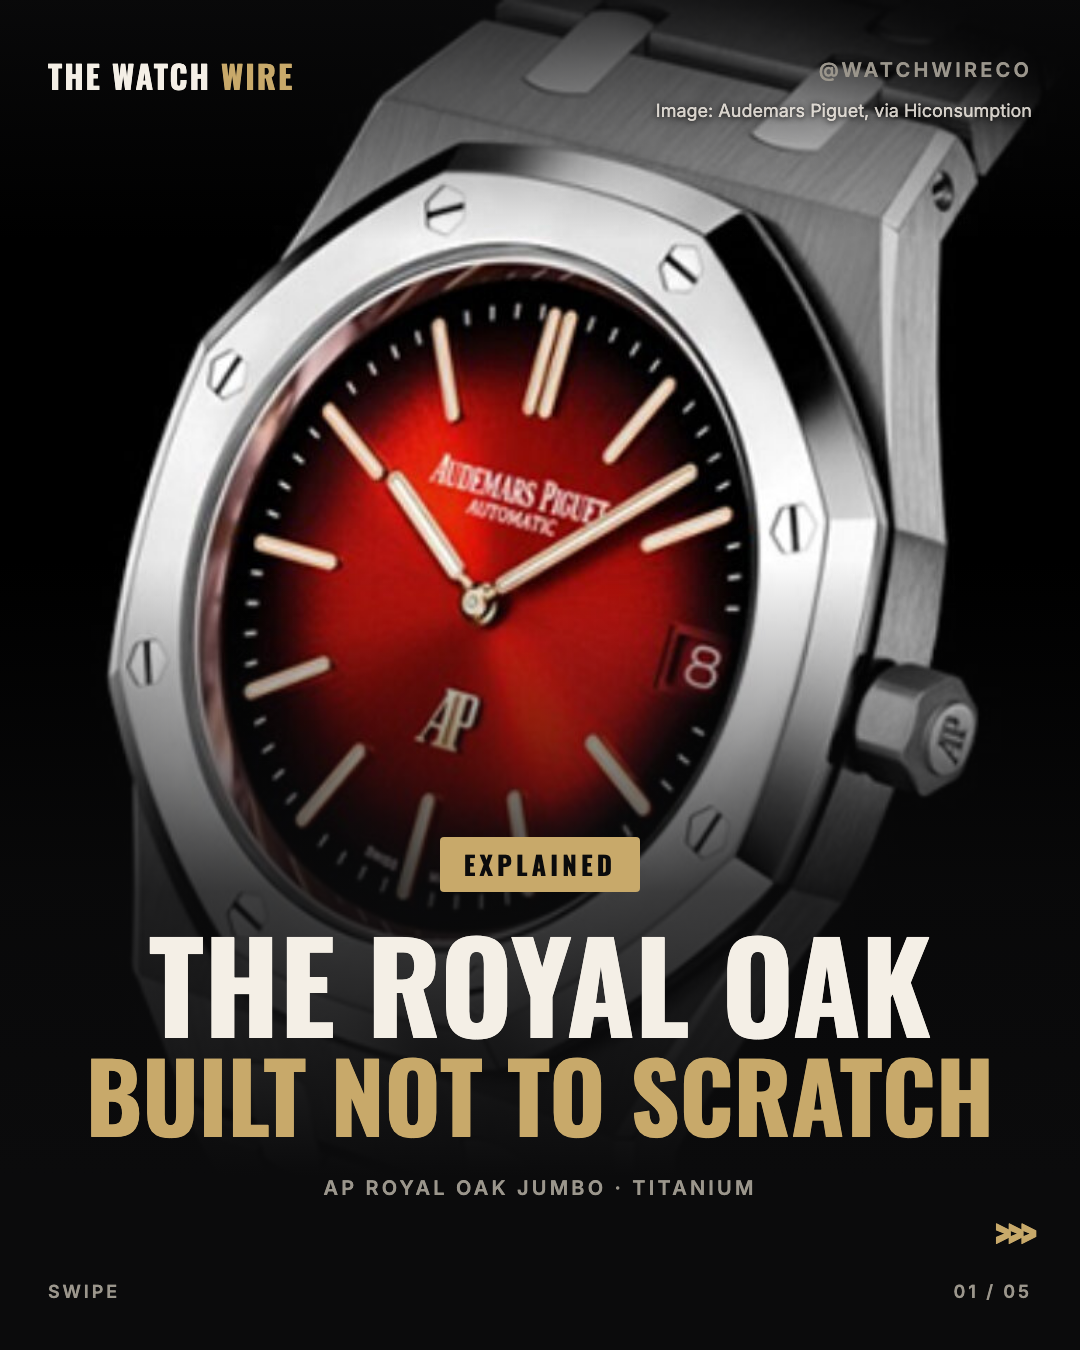
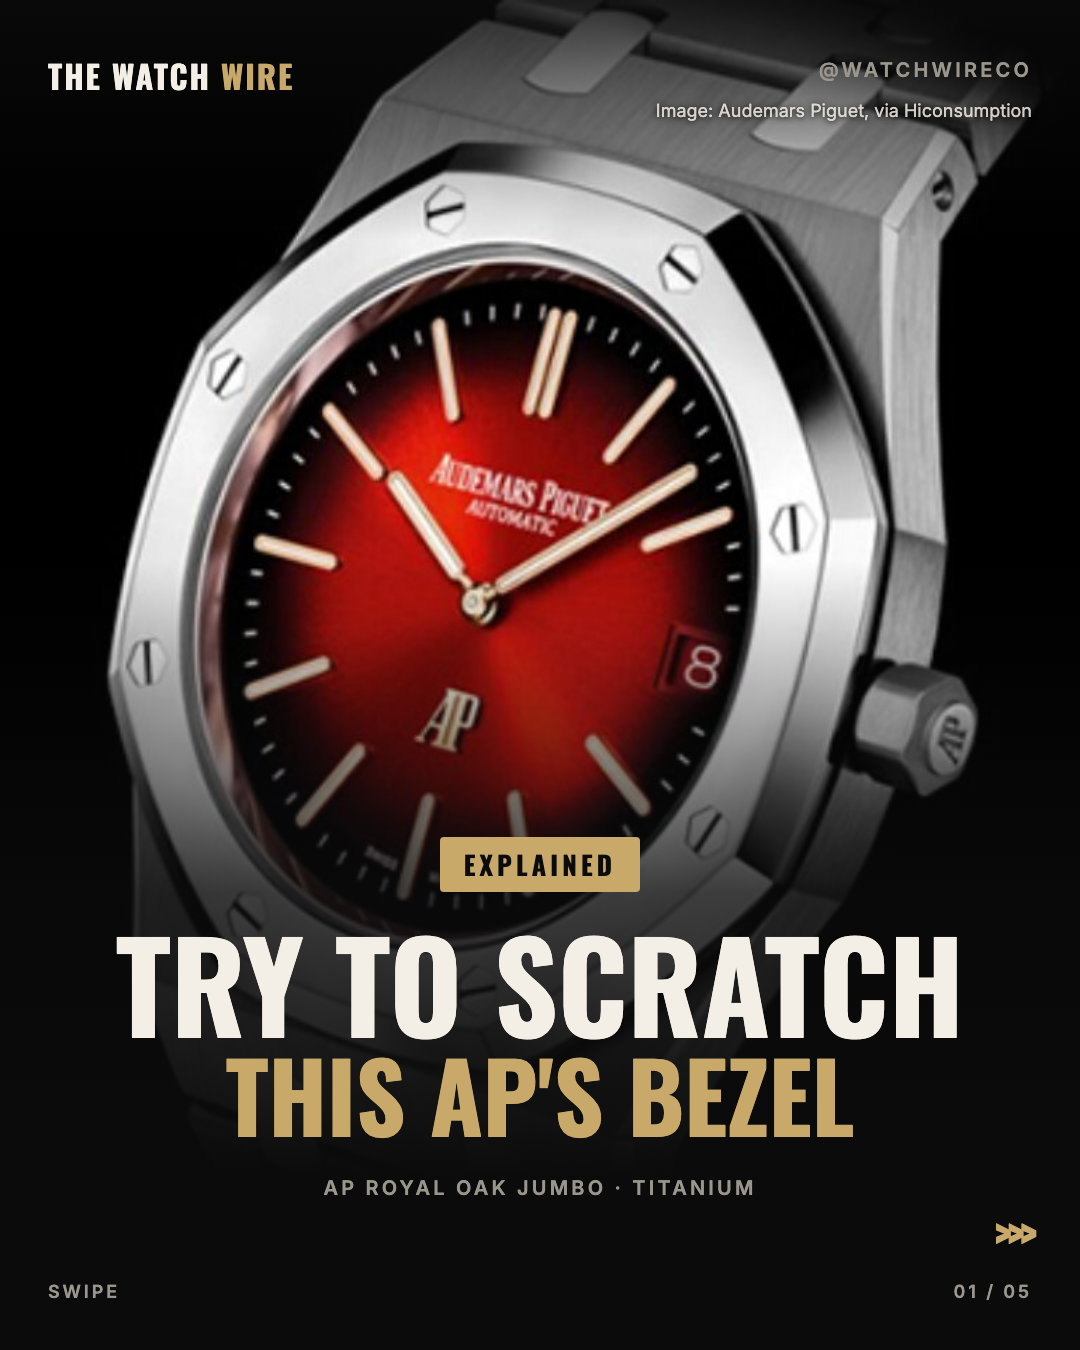
AP Jumbo: dare cover + follow page; covers ask/dare, last slide is a follow page

Changed region(s): [[0.0611, 0.6844, 0.9167, 0.84]]

diff --git a/watch-wire-engine/FORMATS.md b/watch-wire-engine/FORMATS.md
@@ -12,8 +12,7 @@ October. Fifth month in a row." Never hype, emoji headlines or "buy now".
 wearing" unless ownership is confirmed; say whether auction prices include fees.
 **Never:** price predictions, investment advice, clickbait the slides don't pay
 off, reposting other creators' slides or photos, a press photo presented as ours.
-**CTA:** calm and direct, one action ("Vote in the comments." / "Follow @watchwireco
-for daily watch news.").
+**Last slide (owner 2026-11-27):** a follow page: cta {line1: "Like this one?", line2: "Follow for more."} (or a close variant). The comment question goes in the caption. Vote posts (WOULD YOU RATHER, picks) keep their vote prompt on the last slide.
 
 **Plain words (owner 2026-11-26: "our posts are often super hard to read").** Write like a top watch account (@luxurywatchmedia): confident and clear, using real watch words a watch fan knows (bezel, bracelet, centre links, dial, case, movement, titanium, bulk metallic glass, smoked dial, pink gold). Never baby talk or vague paraphrase ("the shiny parts", "frozen in a jumble", "winds itself" → "automatic") — owner 2026-11-27: "this is a watch page."
 - Every slide reads as one full, normal sentence or phrase that makes sense on its own. No riddles or clipped fragments ("Times a stretch, not seconds" → "It measures speed, not time").
@@ -36,7 +35,7 @@ for daily watch news.").
 - Never repeat the cover's words on a later slide, never a slide that only names a topic ("The dial", "The size").
 - Read the slide headlines and bodies in order, out loud, as one paragraph. If it doesn't read as a story, rewrite it.
 
-**Covers (owner 2026-11-26, from @luxurywatchmedia / @liveforwatches).** One huge picture fills about 70% of the cover: a face, a wrist or the watch, cropped tight. Headline = a 3–5 word twist that makes people curious, not a description: "No Snow, No Watch", "Khamzat Wears A Smile", "Left Or Right?", "Built For A Trench War" (not "What A Tachymeter Bezel Actually Does", not "Cartier's Tank Came From War"). Under it, one short fact line (watch name · one number). The tag pill above the headline. The facts and the explaining go on slide 2+.
+**Covers (owner 2026-11-26, from @luxurywatchmedia / @liveforwatches).** One huge picture fills about 70% of the cover: a face, a wrist or the watch, cropped tight. Headline = a question or a dare that pulls the viewer in (owner 2026-11-27: "Try To Scratch This AP's Bezel", "Ever Wonder Why This Bezel Won't Scratch?"), or a 3–5 word twist that makes people curious, never a description or a puzzle the slides must untangle: "No Snow, No Watch", "Khamzat Wears A Smile", "Left Or Right?", "Built For A Trench War" (not "What A Tachymeter Bezel Actually Does", not "Cartier's Tank Came From War"). Under it, one short fact line (watch name · one number). The tag pill above the headline. The facts and the explaining go on slide 2+.
 
 **What gets reach:** today's news the same day; pop culture (games, films, fighters, footballers, rappers, musicians wearing watches); jaw-dropping pieces (a record price, a meteorite dial, 270 rubies); and a choice for the reader. Explainers are the backup, not the main menu.
 

diff --git a/.claude/agents/watch-wire-editor.md b/.claude/agents/watch-wire-editor.md
@@ -37,7 +37,8 @@ Your prompt includes this post's format recipe and the latest lessons; don't rea
 - PLAIN WORDS (owner 2026-11-26: "our posts are often super hard to read"; full rules in FORMATS.md): write like a top watch account: confident, clear, real watch words (bezel, centre links, smoked dial, bulk metallic glass); never baby talk ("the shiny parts", "frozen in a jumble") — owner 2026-11-27. Each slide = one normal sentence that makes sense alone, no clipped riddles. No reference numbers, calibre codes, specs codes, sources or dates on slides ("Omega Speedmaster, $7,800"). Explain a technical word in the same sentence or drop it. One number per slide max. Read every slide aloud: if it sounds odd, rewrite it.
 - STORY FIRST (owner 2026-11-27, full rule in FORMATS.md "Story first"): before slides.json, write `<P>/story.txt`: 4-6 plain sentences you'd say out loud to a watch fan, each answering the question the last one raised, every unusual term explained in everyday words the first time. Then cut story.txt into slides in order (headline = short sentence up to 8 words, body up to 25 words, label empty).
 - ONE STORY (owner 2026-11-27, full rule in FORMATS.md): write the post as one short paragraph first (promise → answer → why it's interesting → payoff), then cut it into slides in order. Slide 2 pays off the cover at once; each slide follows from the last like the next sentence; never repeat the cover's words; no topic-only slides ("The dial", "The size"). Read all slides in order as one paragraph before finishing.
-- COVER HEADLINE (owner 2026-11-26): a 3-5 word twist that makes people curious ("No Snow, No Watch", "Built For A Trench War"), never a description ("What A Tachymeter Does"). Meta line = watch name · one number. The cover photo is big and tight (face, wrist or watch filling the frame).
+- LAST SLIDE (owner 2026-11-27): a follow page, cta {line1 "Like this one?", line2 "Follow for more."}; the comment question goes in the caption (vote posts keep their vote prompt).
+- COVER HEADLINE (owner 2026-11-26/27): a question or a dare that pulls people in ("Try To Scratch This AP's Bezel", "Ever Wonder Why...?") or a 3-5 word twist that makes people curious ("No Snow, No Watch", "Built For A Trench War"), never a description ("What A Tachymeter Does"). Meta line = watch name · one number. The cover photo is big and tight (face, wrist or watch filling the frame).
 - Short: headlines up to 8 words, body up to 25 words. Everything centred; no stray shapes or white boxes.
 Copy file shapes exactly from `watch-wire-engine/example/` (evidence, analysis, hook, carousel, caption, slides).
 `S` = `node watch-wire-engine/src/steps.js` (bundled mechanical steps), `PH` = `node watch-wire-engine/src/photo.js`.

diff --git a/watch-wire-engine/state/design-notes.md b/watch-wire-engine/state/design-notes.md
@@ -26,3 +26,4 @@ Add each new owner praise or critique here (dated, one line). Newest last.
 - 2026-11-25: owner loved the chronograph post's movement shot (slide 2), but it should have been the cover: lead with the most attention-grabbing picture. WATCH EXPLAINED covers = the movement/mechanism close-up.
 - 2026-11-26: owner: design problems should be caught before the approver. The renderer now measures every slide (overflow, overlap, cut-off footer, text on black, cover text over 40% of the photo), shrinks text up to 28% to fit, and sends what's left to the editor.
 - 2026-11-26: Owner: posts are often super hard to read. Plain words: one normal sentence per slide, no reference numbers/codes/sources/dates on slides (caption + footer only), explain or drop technical words. Covers like @luxurywatchmedia/@liveforwatches: one huge tight photo (~70%), 3-5 word twist headline, one short fact line.
+- 2026-11-27: Owner loved the AP scratch-story post ('perfect'). Covers: a question or dare that pulls people in ('Try To Scratch This AP's Bezel'). Last slide: a follow page ('Like this one? Follow for more.'); comment question in the caption.
